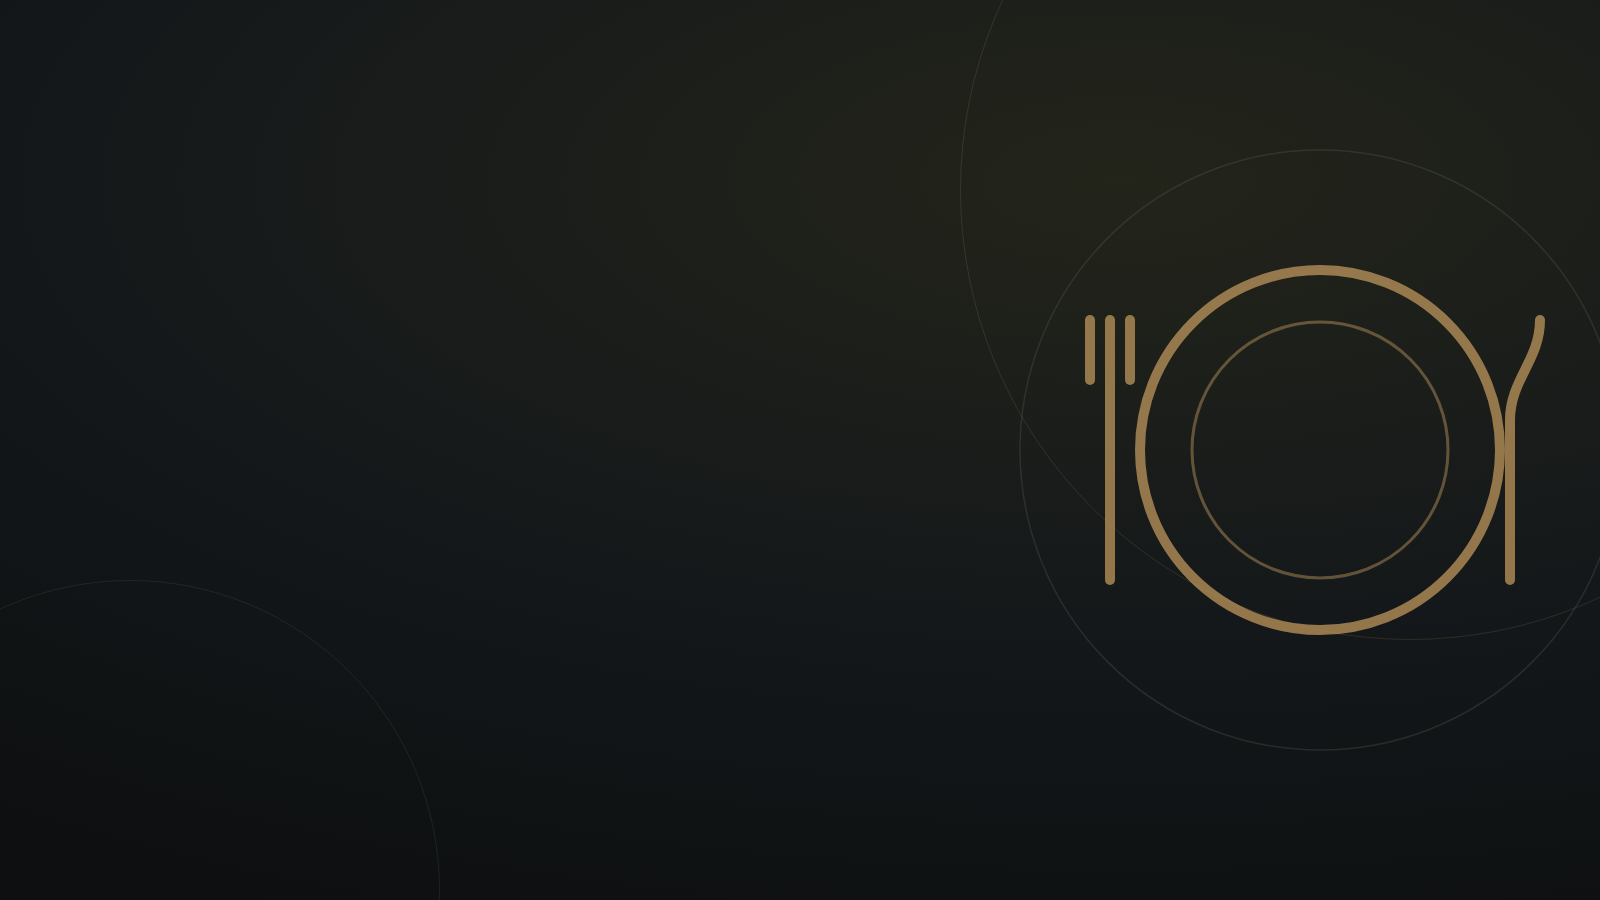
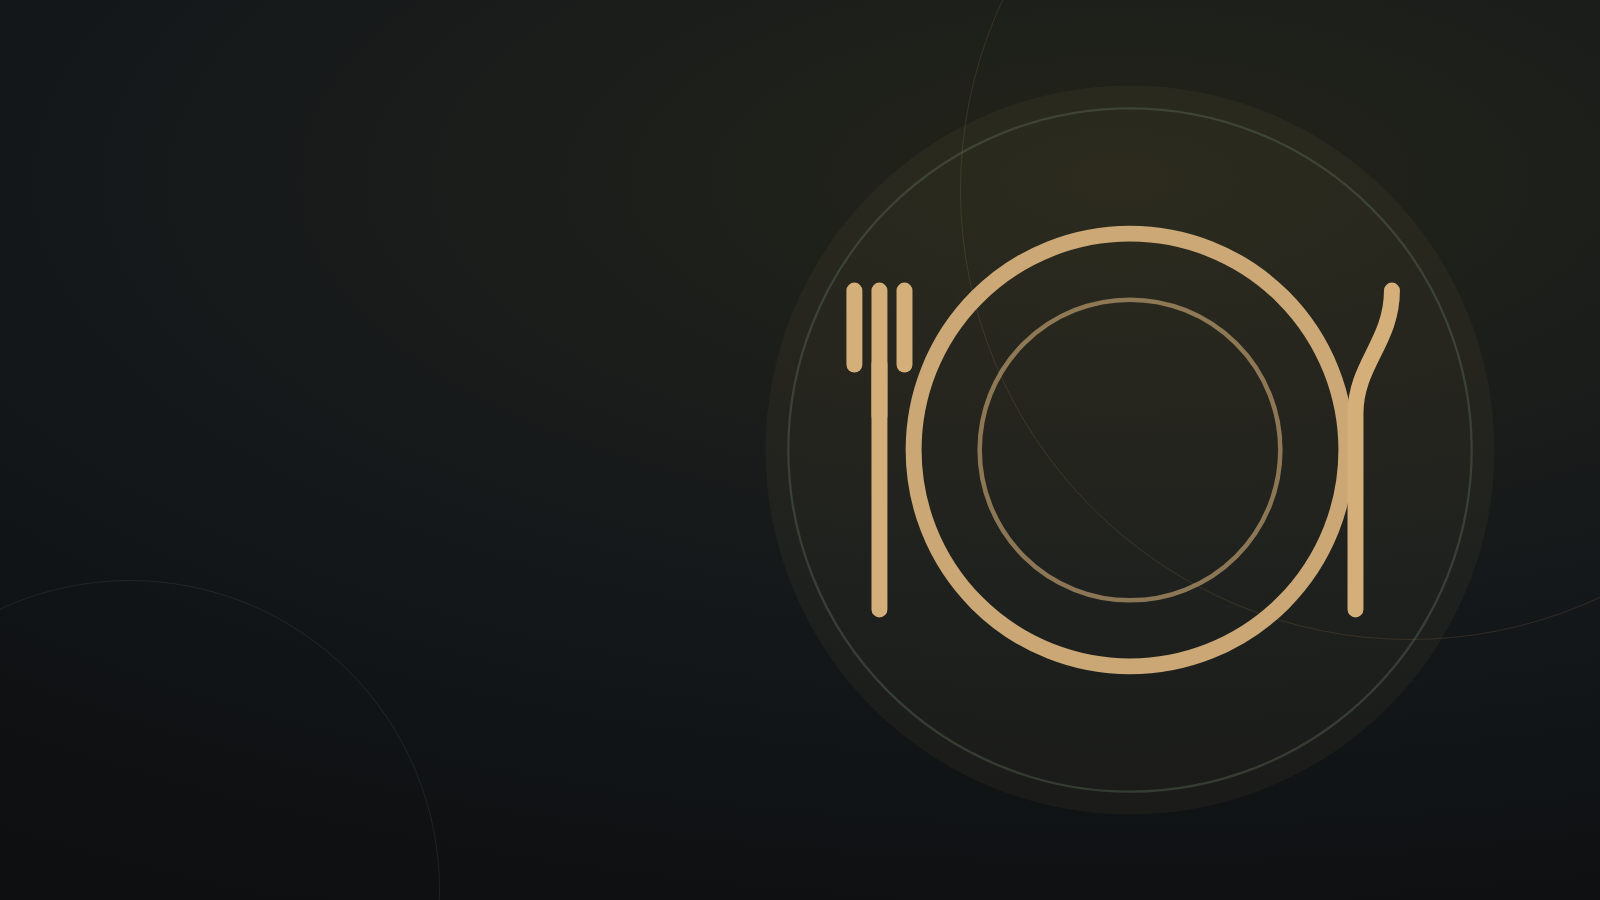
Fix pillar hero images being nearly invisible under dark overlay

Changed region(s): [[0.5, 0.2489, 0.9688, 0.7467]]

diff --git a/styles.css b/styles.css
@@ -338,6 +338,10 @@ a { color: inherit; text-decoration: none; }
   display: flex;
   align-items: center;
   padding: 160px 0 80px;
+  background-color: #14181a;
+}
+.pillar-hero.photo-bg::before {
+  background: linear-gradient(90deg, rgba(20,24,26,0.97) 0%, rgba(20,24,26,0.9) 38%, rgba(20,24,26,0.55) 62%, rgba(20,24,26,0.15) 100%);
 }
 .pillar-hero .eyebrow { color: var(--gold); }
 .pillar-hero .eyebrow a { color: var(--gold); text-decoration: underline; text-underline-offset: 3px; }